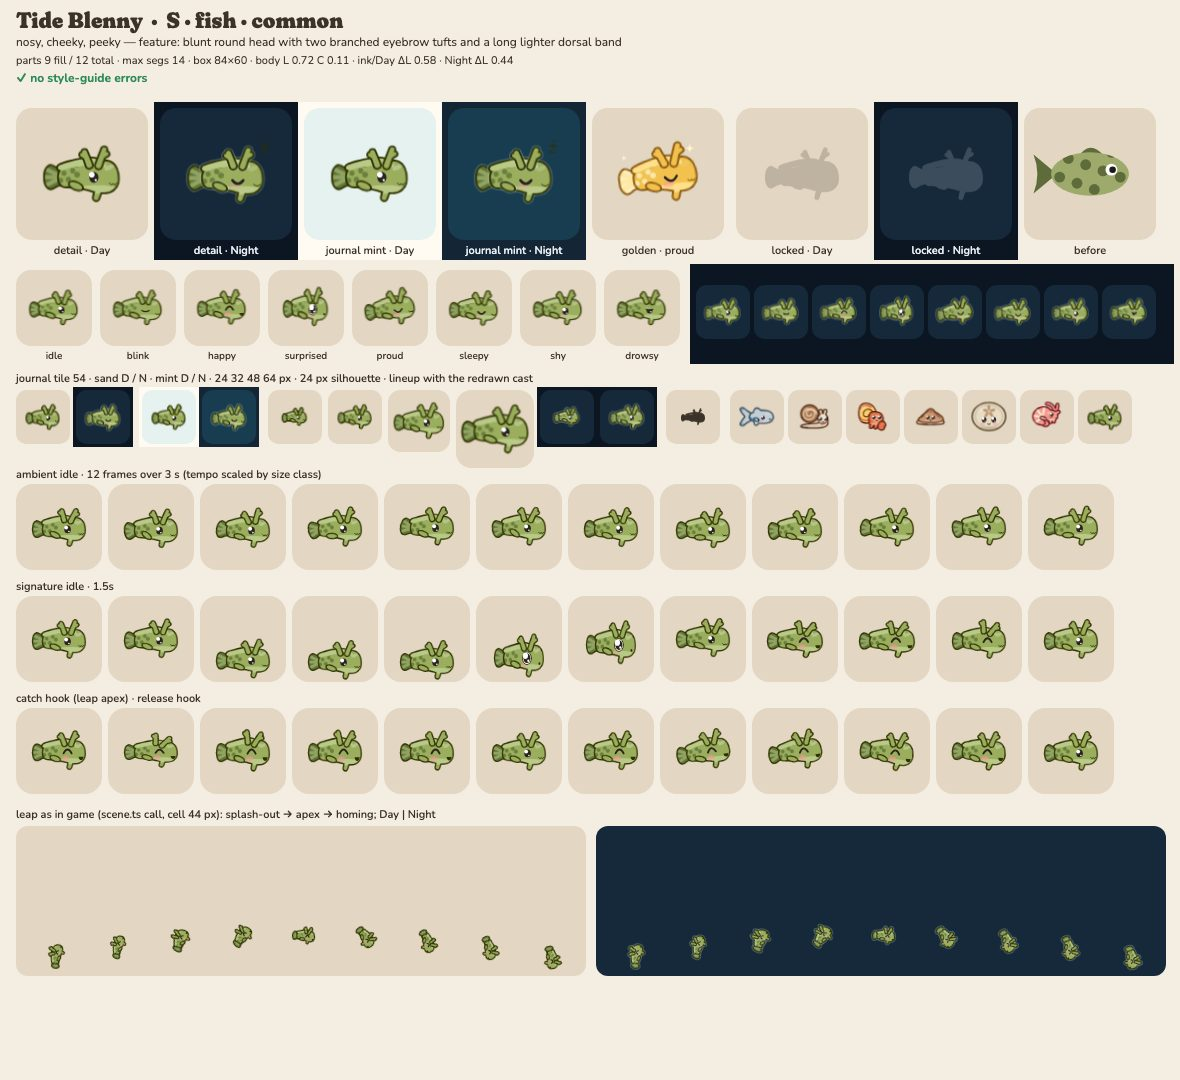
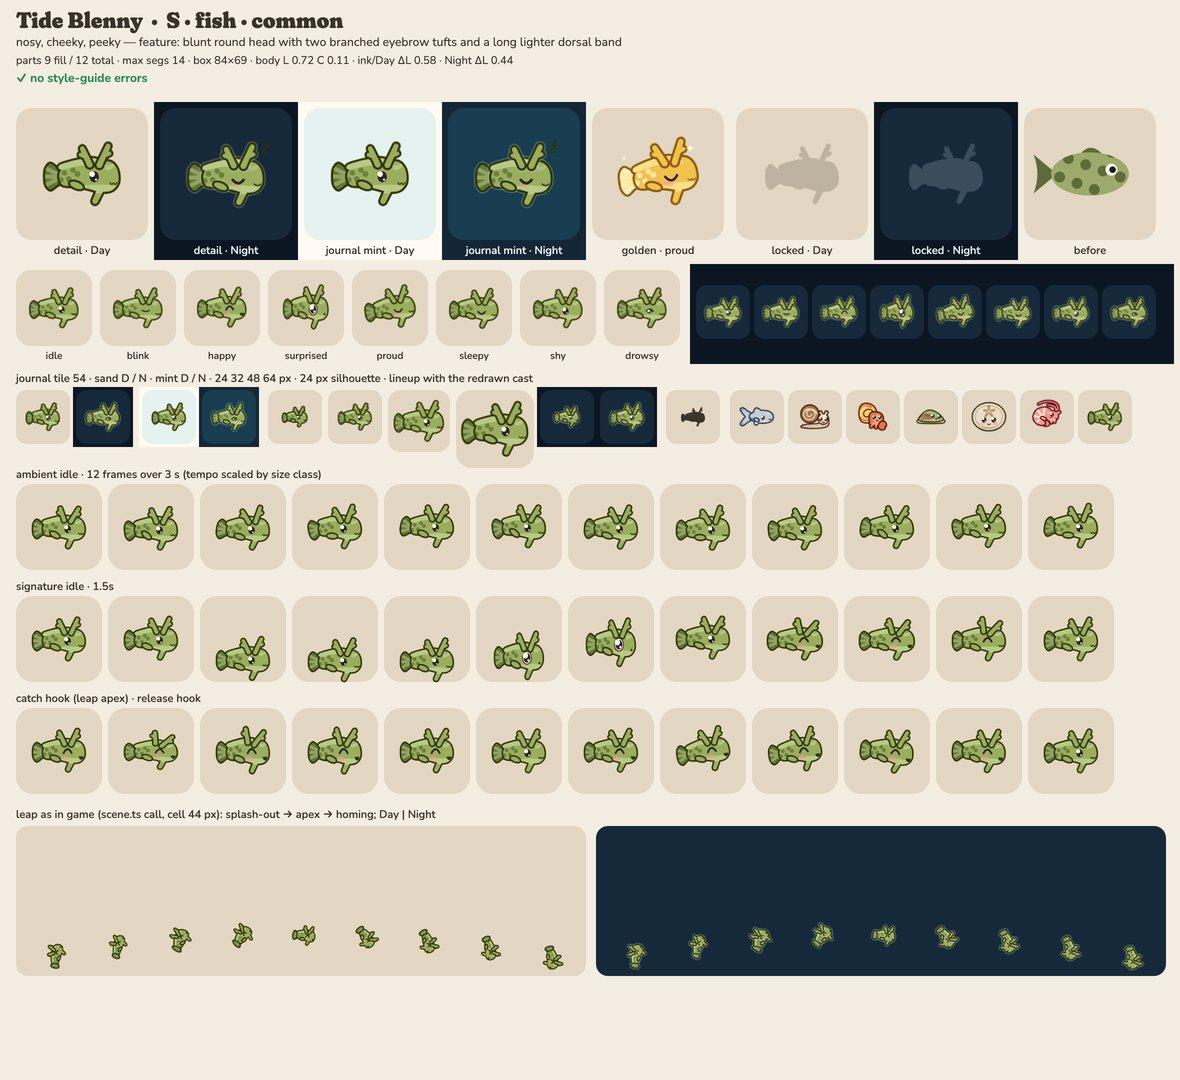
render: blenny art round 3 — taller splayed cirri, bigger fan tail, longer perch fin; clears flounder IoU (ADR 0011)
Fixes the main-branch R12 failure (blenny/flounder 0.713 -> 0.678). Keeps the deep
peduncle and branched cirri. Verdict: B+/A-, antler cirri read at 24 px.

diff --git a/src/render/art/species/blenny.ts b/src/render/art/species/blenny.ts
@@ -42,10 +42,10 @@ const tail = blob(
   [
     [-25, -6],
     [-32, -9.5],
-    [-40, -13],
-    [-45.3, -6.5],
-    [-45.3, 6.5],
-    [-40, 13],
+    [-40, -15],
+    [-45.5, -8],
+    [-45.5, 8],
+    [-40, 15],
     [-32, 9.5],
     [-25, 6],
   ],
@@ -54,14 +54,14 @@ const tail = blob(
 // the eyebrow cirri: two branched tufts straddling the eye, splayed ±25° (never bunny ears);
 // each is a stem with one side fork, so it reads as a little feathery antler at 54 px
 // (the front one stands taller: one raised eyebrow, the cheeky look)
-const tuftF = capsule(16, -13, 3.3, 22.5, -31.5, 2.7);
-const forkF = capsule(19.6, -23, 2.3, 25.5, -26.5, 2.2);
-const tuftR = capsule(5, -13.5, 3.3, -0.5, -28.5, 2.7);
-const forkR = capsule(1.8, -22, 2.3, -3.5, -25.5, 2.2);
+const tuftF = capsule(16, -13, 3.4, 26, -35, 2.9);
+const forkF = capsule(20.5, -23.5, 2.4, 27.5, -26.5, 2.3);
+const tuftR = capsule(5, -13.5, 3.4, -3.5, -32, 2.9);
+const forkR = capsule(1, -22.5, 2.4, -5.5, -25, 2.3);
 // a flat pectoral swept back along the flank, well behind the eye (not a second mouth)
 const pectoral = ellipse(-10, 10, 8, 3.6, 22);
 // the perch: blennies sit propped on their stubby pelvic fins under the chin
-const pelvic = capsule(16, 13, 3.4, 13, 23.5, 2.8);
+const pelvic = capsule(18, 13, 3.8, 11, 28, 3.2);
 // darker olive spots (R18 spots, ≥ 6 u), placed by hand along the flank, clear of the eye
 const spots = join(
   circle(-9, -3, 3.3),
